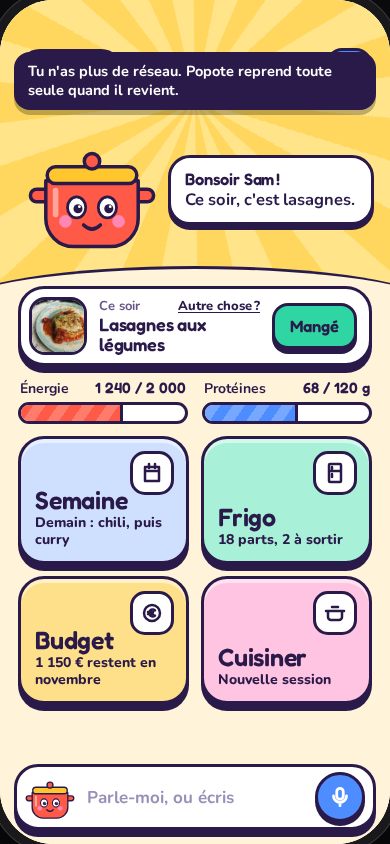
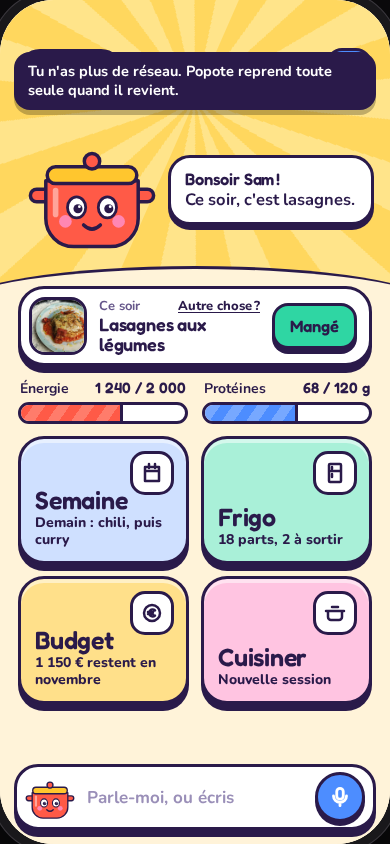
docs(design): garde l'état incertain après « Vérifier » dans « Aujourd'hui »
Why: la troisième relecture de la demande #57 a montré qu'après « Vérifier »,
une relecture qui ne montre pas la saisie affichait « Pas noté », alors que
le premier envoi peut encore arriver et que ce texte est réservé à une
erreur du serveur ; et que le bandeau hors ligne du prototype était créé
déjà rempli, ce qu'un lecteur d'écran peut ne pas annoncer.

What: si la relecture ne montre pas la saisie, l'état reste incertain et le
bouton devient « Réessayer », avec la même clé, pour les repas comme pour
les choses à faire ; les tests de H3 et H4 suivent ; dans le prototype, la
région d'état du bandeau existe vide dès le premier rendu, puis reçoit son
texte ; captures 37 et 38 refaites.

Refs: #56

diff --git a/.design/aujourdhui/prototype.html b/.design/aujourdhui/prototype.html
@@ -190,7 +190,7 @@ body{background:var(--sol);color:var(--txt);font-family:'Nunito',system-ui,sans-
 .ceSoir .btn{flex:none}
 .ceSoir .vd{width:58px;height:58px;border-radius:16px;border:3px dashed #B9AEDA;flex:none;display:grid;place-items:center;font-family:var(--titre);font-size:24px;color:#B9AEDA}
 .ceSoir .vd.est{border-style:solid;border-color:var(--encre);background:#FFE08A;color:var(--encre)}
-.reseau{position:absolute;z-index:40;left:14px;right:14px;top:52px;background:var(--encre);color:#fff;border-radius:16px;padding:10px 14px;font-weight:700;font-size:14.5px;line-height:1.3;box-shadow:0 5px 0 rgba(0,0,0,.25)}
+.reseau{position:absolute;z-index:40;left:14px;right:14px;top:52px;background:var(--encre);color:#fff;border-radius:16px;padding:10px 14px;font-weight:700;font-size:14.5px;line-height:1.3;box-shadow:0 5px 0 rgba(0,0,0,.25)}.reseau:empty{opacity:0;pointer-events:none}
 .ceSoir .tampon{left:3px;top:27px;font-size:13.5px;padding:0 6px;border-width:2.5px;border-radius:9px;box-shadow:0 3px 0 var(--encre)}
 .bz{position:absolute;z-index:3;left:168px;right:16px;top:104px;height:172px;display:flex;align-items:center}
 .bz .bulle{position:relative;width:100%}
@@ -295,6 +295,7 @@ body{background:var(--sol);color:var(--txt);font-family:'Nunito',system-ui,sans-
   <div class="col centre" style="top:auto;bottom:20px"><button type="button" class="micro gros" id="vx-micro" aria-label="Parler"><svg viewBox="0 0 24 24" aria-hidden="true"><path d="M12 4a3 3 0 013 3v4a3 3 0 01-6 0V7a3 3 0 013-3zM6 11a6 6 0 0012 0M12 17v3"></path></svg></button></div>
 </section>
 
+    <div class="reseau" id="reseau" role="status"></div>
     <div class="doigt" id="doigt"></div>
   </div></div>
   <div class="ordi-cadre" id="ordi-cadre"><div class="ordi" id="ordi">
@@ -356,7 +357,7 @@ body{background:var(--sol);color:var(--txt);font-family:'Nunito',system-ui,sans-
   const el=(tag,cls,html)=>{const e=document.createElement(tag);e.className=cls;e.innerHTML=html;return e};
   const fr=n=>n.toLocaleString('fr-FR').replace(/[\u202f\u00a0]/g,'\u00a0');
   const M=()=>q('[data-m]');
-  function vas(id){document.querySelectorAll('.reseau').forEach(x=>x.remove());feuille=false;fait=false;parts=STOCK-(id==='elle'?1:0);document.querySelectorAll('.e').forEach(s=>{if(s.id!==ici&&s.id!==id)s.innerHTML=''});va(id);document.querySelectorAll('#'+id+' [data-p]').forEach(x=>x.innerHTML=POT)}
+  function vas(id){const rs=document.getElementById('reseau');if(rs){rs.textContent='';gsap.set(rs,{y:0})}feuille=false;fait=false;parts=STOCK-(id==='elle'?1:0);document.querySelectorAll('.e').forEach(s=>{if(s.id!==ici&&s.id!==id)s.innerHTML=''});va(id);document.querySelectorAll('#'+id+' [data-p]').forEach(x=>x.innerHTML=POT)}
   const bulle=html=>{const b=q('#bulle');b.innerHTML=html;gsap.fromTo(b,{scale:.85},{scale:1,duration:.35,ease:'back.out(2.5)'})};
   const compte=(e,de,a)=>{const o={v:de};gsap.to(o,{v:a,duration:.9,ease:'power2.out',onUpdate:()=>{e.textContent=fr(Math.round(o.v))}})};
   const note=()=>{const b=q('#mange');b.textContent='+ Dessert';b.className='btn j pt';q('#plat small').innerHTML='<span>Mangé.</span><u>Annuler</u>';gsap.from(b,{scale:.85,duration:.4,ease:'back.out(3)'})};
@@ -469,9 +470,9 @@ body{background:var(--sol);color:var(--txt);font-family:'Nunito',system-ui,sans-
       ajoute('rep','J\'ai beaucoup parlé aujourd\'hui : je ne réponds plus jusqu\'à demain matin.<br><b>Tout le reste de l\'appli marche.</b>');const c=q('#a-champ');c.disabled=true;c.placeholder='De retour demain à 6 h';gsap.set([c,q('#a-micro')],{opacity:.45});await dors(3400)},
     async panne(){vas('auj');await dors(1200);await touche(q('#mange'));const b=q('#mange');b.textContent='…';await dors(1400);triste(M());gsap.fromTo(b,{x:-8},{x:8,duration:.06,yoyo:true,repeat:5,onComplete:()=>gsap.set(b,{x:0})});
       b.textContent='Vérifier';b.className='btn j pt';b.style.cssText='font-size:15px;padding:0 10px';q('#plat small').innerHTML='<span>Pas sûr que ce soit noté.</span>';bulle('<span class="tt">Pas sûr que ce soit noté.</span><br>Je n\'arrive pas à joindre la cuisine.');await dors(3400)},
-    async horsligne(){vas('auj');await dors(1200);const bd=el('div','reseau','Tu n\'as plus de réseau. Popote reprend toute seule quand il revient.');bd.setAttribute('role','status');document.getElementById('tel').appendChild(bd);gsap.from(bd,{y:-90,duration:.45,ease:'back.out(1.6)'});await dors(1700);
+    async horsligne(){vas('auj');await dors(1200);const bd=document.getElementById('reseau');bd.textContent='Tu n\'as plus de réseau. Popote reprend toute seule quand il revient.';gsap.fromTo(bd,{y:-90},{y:0,duration:.45,ease:'back.out(1.6)'});await dors(1700);
       await touche(q('#mange'));const b=q('#mange');b.textContent='+ Dessert';b.className='btn j pt';q('#plat small').innerHTML='<span>En attente.</span><u>Annuler</u>';gsap.from(b,{scale:.85,duration:.4,ease:'back.out(3)'});bulle('<span class="tt">Part dès que le réseau revient.</span><br>Je le garde d\'ici là.');await dors(3400);
-      gsap.to(bd,{y:-90,duration:.3,onComplete:()=>bd.remove()});await dors(700);await servi()},
+      gsap.to(bd,{y:-90,duration:.3,onComplete:()=>{bd.textContent='';gsap.set(bd,{y:0})}});await dors(700);await servi()},
     async pcauj(){vas('pcauj');q('#puces').innerHTML=PUCES.map(p=>'<button type="button" class="btn b pt">'+p+'</button>').join('');gsap.from(q('#puces').children,{y:14,opacity:0,duration:.35,stagger:.07,delay:.5});await dors(1700);parle(M(),6);await dors(900);
       await ecris('On mange quoi demain ?');await pense(1000);parle(q('#a-m'),6);
       ajoute('rep','Demain midi : <b>chili</b>, sors-en 2 parts ce soir. Demain soir : <b>curry de pois chiches</b>.<div class="actes"><button type="button" class="btn b pt">Voir la semaine</button></div>');await dors(3400)}

diff --git a/docs/superpowers/specs/2026-11-13-parcours-aujourdhui-design.md b/docs/superpowers/specs/2026-11-13-parcours-aujourdhui-design.md
@@ -113,8 +113,10 @@ réduit). Elle tient en une phrase et porte son bouton dans la bulle :
     « Annuler » retire l'écriture en attente : rien ne part, la chose retrouve son bouton.
   - **Incertain** (la requête est partie, les reprises n'ont pas eu de réponse) : la bulle dit « Je vérifie… »,
     bouton désactivé, et l'écran relit P1. La chose n'y est plus : c'est réglé, la bulle confirme. Elle y est
-    encore : cas « refusé ». P1 ne répond pas non plus : « **Pas sûr que ce soit réglé.** Je n'arrive pas à joindre
-    la cuisine. » avec le bouton « Vérifier », qui relit P1 et n'envoie aucune écriture.
+    encore : le résultat reste incertain (le premier envoi peut encore arriver), jamais « refusé » sans erreur du
+    serveur ; la bulle dit « **Pas sûr que ce soit réglé.** » et son bouton devient « Réessayer », qui rejoue la
+    même opération avec la même clé. P1 ne répond pas non plus : « **Pas sûr que ce soit réglé.** Je n'arrive pas à
+    joindre la cuisine. » avec le bouton « Vérifier », qui relit P1 et n'envoie aucune écriture.
   - **Refusé** (le serveur a répondu par une erreur) : la bulle dit « **Oups, ça n'a pas marché.** Réessaie. » et
     garde son bouton, qui rejoue la même opération avec la même clé : réappuyer est sans effet de plus (P2).
 - Plus rien à faire : la bulle revient à une phrase calme. Si plus aucun repas n'est prévu (ni ce soir ni ensuite)
@@ -140,7 +142,7 @@ Une ligne : la photo du plat (58 px), au-dessus du nom une petite ligne, à droi
 | Un dessert ou un encas vient d'être ajouté | « Ajouté. » et « Annuler » | inchangé | **+ Dessert** |
 | Rien de prévu | « Ce soir » | Rien de prévu ; un carré en pointillés « ? » remplace la photo | **Noter** (blanc), ouvre la feuille « Qu'as-tu mangé ? » |
 | En attente (l'appareil est hors ligne) | « En attente. » et « Annuler » ; la bulle dit « **Part dès que le réseau revient.** Je le garde d'ici là. » | inchangé, sans tampon | **+ Dessert** |
-| Résultat incertain (la requête est partie, les reprises n'ont pas eu de réponse) | « Je vérifie… », puis, sans réponse, « Pas sûr que ce soit noté. » | inchangé | « … » désactivé, puis **Vérifier** (jaune) |
+| Résultat incertain (la requête est partie, les reprises n'ont pas eu de réponse) | « Je vérifie… », puis « Pas sûr que ce soit noté. » | inchangé | « … » désactivé, puis **Vérifier** (jaune) si P1 n'a pas répondu, **Réessayer** (jaune) si P1 ne montre pas la saisie |
 | Refusé (le serveur a répondu par une erreur : rien n'est noté) | « Pas noté. » | inchangé | **Réessayer** (jaune) |
 
 - Le nom tient sur deux lignes au plus, coupé par « … » au-delà. Un plat sans photo montre un carré de couleur avec
@@ -237,8 +239,9 @@ l'écriture est déjà partie, « Annuler » devient l'annulation ordinaire de l
 
 1. Toujours pas de réponse : la ligne dit « Je vérifie… », le bouton passe en « … » désactivé, et l'écran relit P1,
    qui fait foi.
-2. P1 montre la saisie : c'est noté, l'écran suit le cas de réussite. P1 ne la montre pas : l'état « Refusé » du
-   § 4.3 (« Pas noté. », « Réessayer »).
+2. P1 montre la saisie : c'est noté, l'écran suit le cas de réussite. P1 ne la montre pas : le résultat reste
+   incertain, car le premier envoi peut encore arriver ; la ligne garde « Pas sûr que ce soit noté. » et le bouton
+   devient « Réessayer ». Ce n'est pas l'état « Refusé », réservé à une erreur rendue par le serveur.
 3. P1 ne répond pas non plus : la ligne dit « Pas sûr que ce soit noté. » avec le bouton « Vérifier ».
 
 « Vérifier » relit P1 et n'envoie aucune écriture : il reprend au point 2. Seul « Réessayer » rejoue l'écriture, avec
@@ -606,7 +609,8 @@ s'agite ni d'ondes (un anneau fixe dit « écoute ») ; les chiffres des jauges 
     « Annuler » avant, *alors* aucune requête ne part au retour du réseau. *Quand* la requête est partie et reste
     sans réponse après deux reprises, *alors* l'écran ne dit ni « noté » ni « pas noté » : « Je vérifie… », puis « Pas
     sûr que ce soit noté. » avec « Vérifier », qui relit P1 sans rien écrire : si le serveur avait noté, l'écran
-    montre « Mangé » ; sinon, « Pas noté. » avec « Réessayer », qui seul rejoue l'écriture, avec la même clé. « Je
+    montre « Mangé » ; sinon la ligne garde « Pas sûr que ce soit noté. » et propose « Réessayer », qui seul
+    rejoue l'écriture, avec la même clé ; « Pas noté. » ne s'affiche que sur une erreur rendue par le serveur. « Je
     les sors » et « Jeté » suivent la même règle (§ 4.2). Dans tous les cas, rien n'est noté deux fois et rien n'est
     gardé dans le stockage du navigateur.
 13. *Quand* Popote a atteint sa limite, *alors* la feuille le dit avec l'heure de retour, et « Mangé », les tuiles et

diff --git a/docs/superpowers/plans/2026-11-13-parcours-aujourdhui.md b/docs/superpowers/plans/2026-11-13-parcours-aujourdhui.md
@@ -40,8 +40,9 @@ fusion, 400 lignes visées ; les coupes prévues sont écrites.
   la mutation suspendue de la file (aucune requête ne part au retour du réseau). Après l'échec des reprises d'une
   requête partie, le résultat est **incertain** : l'écran dit « Je vérifie… » puis « Pas sûr que ce soit noté. »
   (bouton « Vérifier »), relit P1 et s'y range. **« Vérifier » ne fait que relire P1 : il n'envoie jamais
-  d'écriture.** « Pas noté. » et « Réessayer » viennent d'une erreur rendue par le serveur, ou d'une relecture de P1
-  qui ne montre pas la saisie ; seul « Réessayer » rejoue l'écriture, avec la même clé d'opération. Les choses à
+  d'écriture.** « Pas noté. » ne vient que d'une erreur rendue par le serveur. Si la relecture de P1 ne montre pas
+  la saisie, l'état reste incertain (« Pas sûr que ce soit noté. ») et le bouton devient « Réessayer » ; seul
+  « Réessayer » rejoue l'écriture, avec la même clé d'opération. Les choses à
   faire (P2) suivent la même politique que les repas (P3, P4). Chaque écriture porte sa cible
   explicite : le jour, le repas et la version affichés, jamais déduits de l'heure. Ni la clé ni la saisie ne vont
   dans le stockage du navigateur. Chaque tâche qui écrit teste ces points.
@@ -117,7 +118,7 @@ plan du socle. **Coupe prévue :** en-tête, bulle et repas (H2a) ; jauges et tu
 - Tests : deux choses à la suite ; la chose déjà réglée par l'autre membre ; hors ligne : la bulle montre l'attente,
   la tuile ne bouge pas, l'écriture part seule au retour du réseau, une seule fois ; « Annuler » hors ligne : aucun
   POST ne part au retour du réseau ; requête partie puis deux reprises sans réponse : état incertain, « Vérifier »
-  relit P1 et n'émet aucun POST (chose disparue : réglée ; chose encore là : refusé) ; refus du serveur (« Oups, ça
+  relit P1 et n'émet aucun POST (chose disparue : réglée ; chose encore là : l'état reste incertain, le bouton devient « Réessayer », jamais « refusé » sans erreur du serveur) ; refus du serveur (« Oups, ça
   n'a pas marché. », le bouton reste, rien ne change, réappuyer rejoue la même clé) ; l'annonce et le focus après
   l'appui ; mouvement réduit (pas de délai).
 
@@ -135,7 +136,7 @@ plan du socle. **Coupe prévue :** en-tête, bulle et repas (H2a) ; jauges et tu
   soir » et « Mangé »** ; requête partie puis deux reprises sans réponse : l'écran passe à
   l'état incertain ; rien n'est écrit dans le stockage du navigateur ; réponse perdue alors que le serveur a noté :
   « Vérifier » relit P1 et montre « Mangé », sans doublon ; **« Vérifier » n'émet aucun POST, que le serveur ait noté
-  ou non ; si P1 ne montre pas la saisie, l'écran passe à « Pas noté. »** ; seul « Réessayer » rejoue l'écriture, avec la même clé ; cible portée par
+  ou non ; si P1 ne montre pas la saisie, l'écran garde « Pas sûr que ce soit noté. » et propose « Réessayer » ; « Pas noté. » ne s'affiche que sur une erreur rendue par le serveur** ; seul « Réessayer » rejoue l'écriture, avec la même clé ; cible portée par
   l'écriture : à 15 h 00 min 10 s, « Mangé » sur le midi affiché envoie le midi, et un refus pour état périmé met
   l'écran à jour sans rien noter ; deux membres sur la dernière part (« Sam vient de prendre la dernière part. »,
   « Autre chose ? », « Fermer ») ; annulation de la saisie montrée, pas de la dernière ; chaque bulle (protéines manquantes, atteintes, énergie dépassée, sans objectifs) ; l'état tient après
